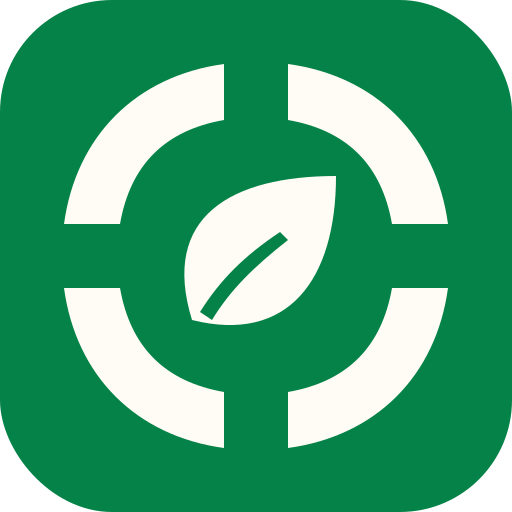
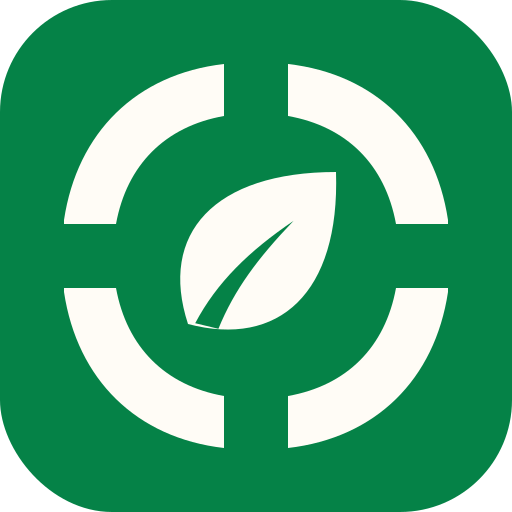
Refine leaf mark and optical balance across the identity kit

diff --git a/branding/build_assets.py b/branding/build_assets.py
@@ -23,13 +23,14 @@ INK = "#24392E"
 CREAM = "#F1E7D8"
 PANEL = "#FFF9F0"
 WHITE = "#FFFCF6"
+# Preserve the four-corner silhouette; soften the optical joins and center the leaf.
 MARK = (
-    "M8 28C9.5 17 17 9.5 28 8V15C20.6 16.3 16.3 20.6 15 28Z "
-    "M36 8C47 9.5 54.5 17 56 28H49C47.7 20.6 43.4 16.3 36 15Z "
-    "M56 36C54.5 47 47 54.5 36 56V49C43.4 47.7 47.7 43.4 49 36Z "
-    "M28 56C17 54.5 9.5 47 8 36H15C16.3 43.4 20.6 47.7 28 49Z "
-    "M24 40C20 27 29 22 42 22C42 35 36 43 24 40Z "
-    "M25 39C27.5 35 30.5 32 35 29L36 30C31.8 33.3 28.8 36.2 26.5 40Z"
+    "M8 27.5C9.65 16.55 17.05 9.25 28 8V14.5C20.65 15.8 15.85 20.6 14.5 28H8Z "
+    "M36 8C46.95 9.25 54.35 16.55 56 27.5V28H49.5C48.15 20.6 43.35 15.8 36 14.5Z "
+    "M56 36.5C54.35 47.45 46.95 54.75 36 56V49.5C43.35 48.2 48.15 43.4 49.5 36H56Z "
+    "M28 56C17.05 54.75 9.65 47.45 8 36.5V36H14.5C15.85 43.4 20.65 48.2 28 49.5Z "
+    "M23.5 40.5C19.8 29.2 26.8 21.5 42 21.5C42.5 36.7 34.8 43.5 23.5 40.5Z "
+    "M24.4 40.4C27.1 35.3 31.1 31.4 36.7 27.6C32.2 32.3 29.3 36.2 27.3 41.1Z"
 )
 
 
@@ -107,7 +108,7 @@ def sheet(pieces: list[tuple[str, str]], width: float) -> str:
         body += f'<text x="{x}" y="782" fill="{INK}" font-family="Arial,sans-serif" font-size="14">{size} px</text>'
         x += 116
     body += f'<g transform="translate(696 688) scale(.5)">{contents(primary)}</g>'
-    body += f'<text x="696" y="782" fill="{INK}" font-family="Arial,sans-serif" font-size="14">Sidebar / compact lockup</text>'
+    body += f'<text x="696" y="782" fill="{INK}" font-family="Arial,sans-serif" font-size="14">Header / compact lockup</text>'
     for x, color, label in ((64, GREEN, "Forest / #058247"), (340, INK, "Ink / #24392E"), (616, CREAM, "Cream / #F1E7D8"), (892, PANEL, "Panel / #FFF9F0")):
         body += f'<rect x="{x}" y="830" width="244" height="40" rx="6" fill="{color}" stroke="{INK}" stroke-opacity=".15"/>'
         body += f'<text x="{x}" y="902" fill="{INK}" font-family="Arial,sans-serif" font-size="15">{label}</text>'
@@ -141,7 +142,7 @@ def main() -> None:
         "name": "Junction Lens", "team": ["Mert", "Carter"],
         "colors": {"forest": GREEN, "ink": INK, "cream": CREAM, "panel": PANEL, "reversed": WHITE},
         "wordmark": {"family": "Manrope", "weight": 800, "outlined": True},
-        "mark": {"center": "leaf", "corner_bar_nominal_grid_units": 7, "grid_units": 64},
+        "mark": {"center": "leaf", "corner_bar_nominal_grid_units": 6.5, "revision": "optical-leaf-v2", "grid_units": 64},
         "clear_space": "At least 8 units on the 64-unit mark grid; keep its built-in padding.",
         "minimum_sizes": {"standalone_mark_px": 24, "badge_favicon_px": 16, "horizontal_lockup_width_px": 168},
         "status": "Compact mark and favicon activated; full wordmarks available for demo and submission materials."

diff --git a/branding/README.md b/branding/README.md
@@ -66,3 +66,5 @@ The system Cairo library is required only for regeneration of PNGs. The checked-
 **Integration note (7 November 2026, 20:58 America/New_York / 8 November 2026, 01:58 UTC):** The compact application mark and favicon are activated. The full wordmarks and larger icons are available for future demo/submission materials. Branding does not alter scientific settings, camera approval, datasets or runtime measurements.
 
 **Leaf revision (7 November 2026, 21:03 America/New_York / 8 November 2026, 02:03 UTC):** At Mert's request, the central diamond is replaced with a leaf and the curved bars are reduced from 12 to 7 nominal grid units. The primary leaf is forest green; reversed and monochrome treatments retain cream/ink equivalents for contrast. All filenames, canvases, wordmark glyphs, spacing, palette and existing interface integration are preserved. Regenerated and visually checked the complete SVG/PNG/ICO kit and 16–64 px preview.
+
+**Optical refinement (8 November 2026, 03:25 America/New_York / 8 November 2026, 08:25 UTC):** Mert softened the four existing corner joins, balanced the central leaf and refined its negative-space vein for a cleaner 16–64 px silhouette. Nominal bars are now 6.5 grid units; palette, asset paths, outlined lettering and the recognizable junction/leaf identity remain. The compact lockup is labeled for the new header. All seven vectors parse, have no external resources/live text, and all five alpha PNG sizes/ICO render correctly. The full review sheet and small sizes were visually inspected. This is a presentation refinement, not a scientific or model-status mark.

diff --git a/Worklog.md b/Worklog.md
@@ -6,6 +6,13 @@ Times are shown in America/New_York and UTC. Authors are Mert and Carter only.
 
 ---
 
+### 8 November 2026, 03:25 America/New_York / 8 November 2026, 08:25 UTC
+
+- **Who:** Mert
+- **Done:** Refined the existing vector leaf/corner identity and regenerated every brand variant, favicon, icon and preview.
+- **Completed:** Seven SVGs parse without external resources or live text; all five RGBA icon dimensions and ICO render; primary/reversed/monochrome and 16–64 px review sheet visually inspected.
+- **Still open:** Combined new workspace presentation and browser acceptance; scientific/runtime acceptance remains independent.
+
 ### 8 November 2026, 03:23 America/New_York / 8 November 2026, 08:23 UTC
 
 - **Who:** Mert
